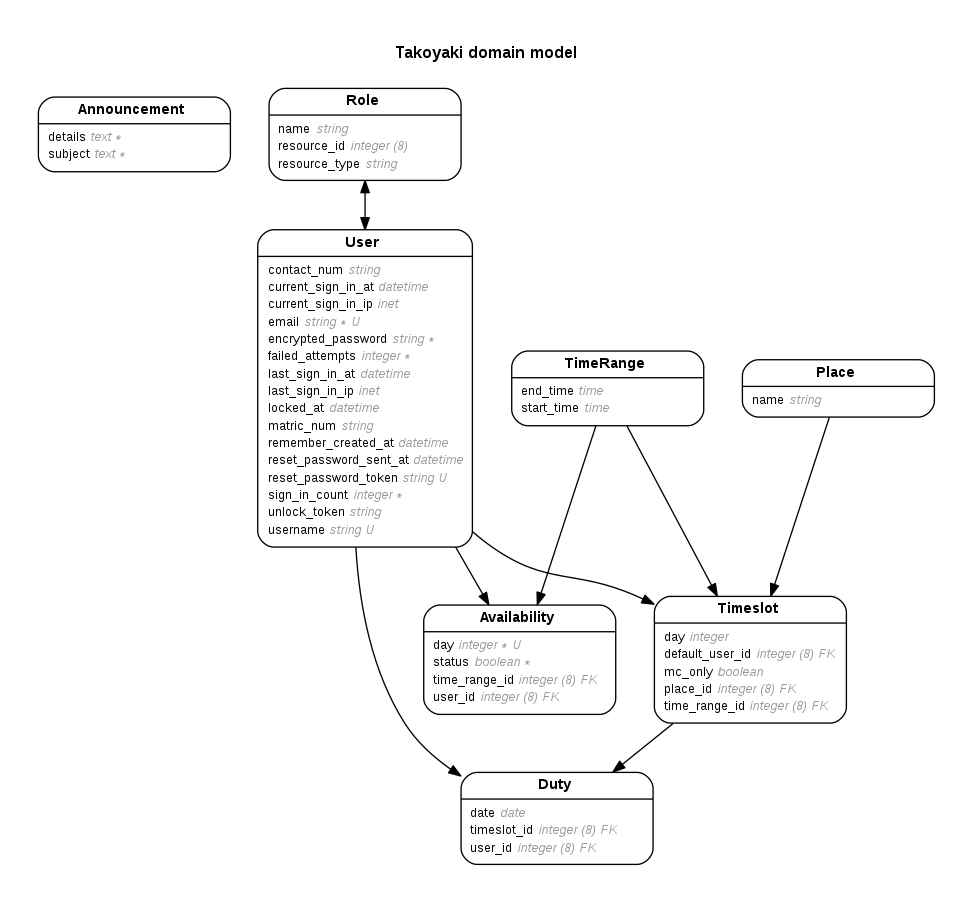
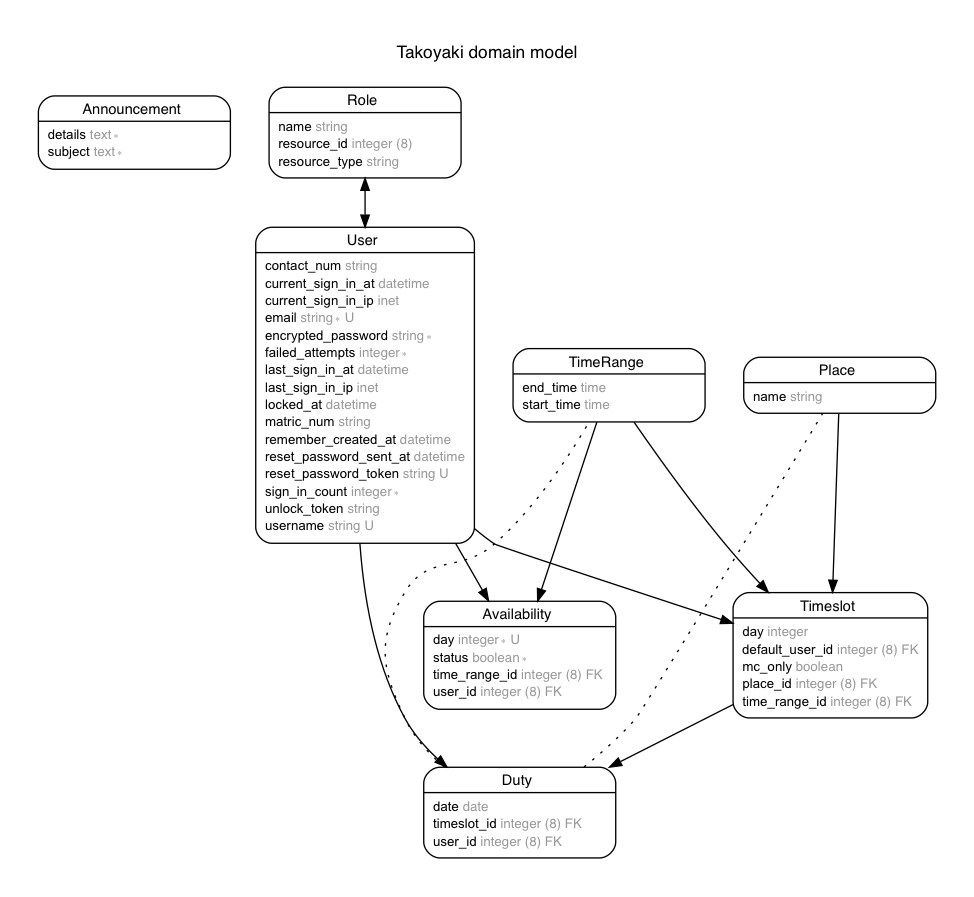
Add email functionality (#34)
Fixes #33

* Generate GenericMailer Mailer

* Fix rubocop offenses

* Add Mailgun gem and its configuration

* First success test email

* Fix rubocop offenses

* Add .env to .gitignore

* Add instructions on README regarding .env

* Show has_many :through in ERD

* Added place association in Duty

* Add default_url_options to enable url helper in mailer

* Add routing for to-be-implemented dropped duties

* Implement drop_duty email notification

* Fix rubocop offence

* Remove test_email

* Add migration, cell column to users

* Add rubocop disable linelength for availabilities

* Remove test email view

* Change enum type to integer

* Implement drop_duty mailer

* Fix rubocop offenses

* Add test for enum

* Update files after migration

* Remove AddCellToUsers Migration

* Add some default values for clues in .env.default

* Fix Gemfile

* Remove dropped_duties routing

* Refactor mailer

* Follow suggestions for mailer views and specs

* Fix commenting in erb files

* Follow suggestion

* Fix subject line

* Change drop_duty.html.erb to be in line with drop_duty.text.erb

* Changed something

* Fix rubocop

* Comment out @problem in view

diff --git a/spec/mailers/generic_mailer_spec.rb b/spec/mailers/generic_mailer_spec.rb
@@ -1,0 +1,51 @@
+# frozen_string_literal: true
+
+require 'rails_helper'
+
+RSpec.describe GenericMailer, type: :mailer do
+  DEFAULT_FROM =
+    'postmaster@sandbox8f696e611a6e4906a977c007f8971322.mailgun.org'
+
+  describe '#drop_duty' do
+    let(:mail) do
+      user = create(:user)
+      timeslot = create(:timeslot)
+      @duty = create(:duty, user: user, timeslot: timeslot)
+      GenericMailer.drop_duty(@duty)
+    end
+
+    it 'renders the header' do
+      expect(mail.subject).to eq(
+        'Duty notification: ' \
+        "#{@duty.time_range.start_time.strftime('%H%M')}-" \
+        "#{@duty.time_range.end_time.strftime('%H%M')} on " \
+        "#{@duty.date.strftime('%a, %d %b %Y')} at " \
+        "#{@duty.place.name}"
+      )
+      expect(mail.to).to eq(User.pluck(:email))
+      expect(mail.from).to eq([DEFAULT_FROM])
+    end
+
+    it 'renders the body' do
+      expect(mail.body.encoded).to match('grab')
+      # expect(mail.body.encoded).to match(dropped_duties_url)
+    end
+  end
+
+  # TODO: uncomment after problem-report is merged
+  #  describe '#problem_report' do
+  #    let(:mail) do
+  #      user = create(:user)
+  #      @problem = create(:problem, user: user)
+  #      GenericMailer.problem_report(@problem)
+  #    end
+  #    it 'renders the header' do
+  #      expect(mail.subject).to eq('New computer problem')
+  #      expect(mail.to).to eq(User.find_by(cell: Technical).pluck(:email))
+  #      expect(mail.from).to eq([DEFAULT_FROM])
+  #    end
+  #    it 'renders the body' do
+  #      expect(mail.body.encoded).to match('problem')
+  #    end
+  #  end
+end

diff --git a/app/mailers/generic_mailer.rb b/app/mailers/generic_mailer.rb
@@ -1,0 +1,34 @@
+# frozen_string_literal: true
+
+class GenericMailer < ApplicationMailer
+  default from: %("Mailgun Sandbox" \
+    <postmaster@sandbox8f696e611a6e4906a977c007f8971322.mailgun.org>)
+
+  def drop_duty(duty)
+    @duty = duty
+    mail(to: users_with_name(User.all),
+         subject: generate_drop_duty_subject(duty))
+  end
+
+  def problem_report(problem)
+    @problem = problem
+    mail(to: users_with_name(Role.find_by(name: :technical).users),
+         subject: 'New computer problem')
+  end
+
+  private
+
+  def generate_drop_duty_subject(duty)
+    'Duty notification: ' \
+    "#{duty.time_range.start_time.strftime('%H%M')}-" \
+    "#{duty.time_range.end_time.strftime('%H%M')} on " \
+    "#{duty.date.strftime('%a, %d %b %Y')} at " \
+    "#{duty.place.name}"
+  end
+
+  def users_with_name(users)
+    users&.pluck(:username, :email)&.map do |u|
+      %("#{u[0]}" <#{u[1]}>)
+    end
+  end
+end

diff --git a/config/environments/production.rb b/config/environments/production.rb
@@ -74,6 +74,13 @@ Rails.application.configure do
   # raise delivery errors.
   # config.action_mailer.raise_delivery_errors = false
 
+  # Send using Mailgun
+  config.action_mailer.delivery_method = :mailgun
+  config.action_mailer.mailgun_settings = {
+    api_key: ENV['MAILGUN_API_KEY'],
+    domain: ENV['MAILGUN_DOMAIN']
+  }
+
   # Enable locale fallbacks for I18n (makes lookups for any locale fall back to
   # the I18n.default_locale when a translation cannot be found).
   config.i18n.fallbacks = true

diff --git a/config/environments/development.rb b/config/environments/development.rb
@@ -37,6 +37,13 @@ Rails.application.configure do
 
   config.action_mailer.default_url_options = { host: 'localhost', port: 3000 }
 
+  # Send using Mailgun
+  config.action_mailer.delivery_method = :mailgun
+  config.action_mailer.mailgun_settings = {
+    api_key: ENV['MAILGUN_API_KEY'],
+    domain: ENV['MAILGUN_DOMAIN']
+  }
+
   # Print deprecation notices to the Rails logger.
   config.active_support.deprecation = :log
 

diff --git a/app/models/duty.rb b/app/models/duty.rb
@@ -26,6 +26,7 @@ class Duty < ApplicationRecord
   belongs_to :user
   belongs_to :timeslot
   has_one :time_range, through: :timeslot
+  has_one :place, through: :timeslot
   # validates_uniqueness_of :date, scope = [:timeslot_id, :user_id]
   scope :ordered_by_start_time,
         -> { joins(:time_range).order('time_ranges.start_time') }

diff --git a/spec/models/duty_spec.rb b/spec/models/duty_spec.rb
@@ -27,6 +27,8 @@ require 'rails_helper'
 RSpec.describe Duty, type: :model do
   it { should belong_to(:user) }
   it { should belong_to(:timeslot) }
+  it { should have_one(:time_range).through(:timeslot) }
+  it { should have_one(:place).through(:timeslot) }
 
   it 'self.generate works properly' do
     create(:timeslot)

diff --git a/config/application.rb b/config/application.rb
@@ -19,5 +19,7 @@ module Takoyaki
     # -- all .rb files in that directory are automatically loaded.
 
     config.time_zone = 'Singapore'
+
+    config.action_mailer.default_url_options = { host: ENV['HOST'] }
   end
 end

diff --git a/spec/mailers/previews/generic_mailer_preview.rb b/spec/mailers/previews/generic_mailer_preview.rb
@@ -1,0 +1,5 @@
+# frozen_string_literal: true
+
+# Preview all emails at http://localhost:3000/rails/mailers/generic_mailer
+class GenericMailerPreview < ActionMailer::Preview
+end

diff --git a/config/initializers/mailgun.rb b/config/initializers/mailgun.rb
@@ -1,0 +1,5 @@
+# frozen_string_literal: true
+
+Mailgun.configure do |config|
+  config.api_key = ENV['MAILGUN_API_KEY']
+end

diff --git a/README.md b/README.md
@@ -12,9 +12,12 @@ To generate the current Entity-Relationship Diagram, install `graphviz` (`sudo a
 then run `rake generate_erd`. This is also run as a post-migration hook (i.e. after `bin/rails db:migrate`)
 
 ## Installation
-Make sure you have Ruby 2.5.0, Bundler, and PostgreSQL 9.6 installed.
+Make sure you have Ruby 2.5.0, Bundler, and PostgreSQL 9.6 installed. Also, create an account on Mailgun for email services.
+Adjust the content of `database.yml` and `.env`
+
 ```bash
 cp config/database.yml.example config/database.yml
+cp .env.default .env
 bundle install
 bin/rails db:setup
 bin/rails server
